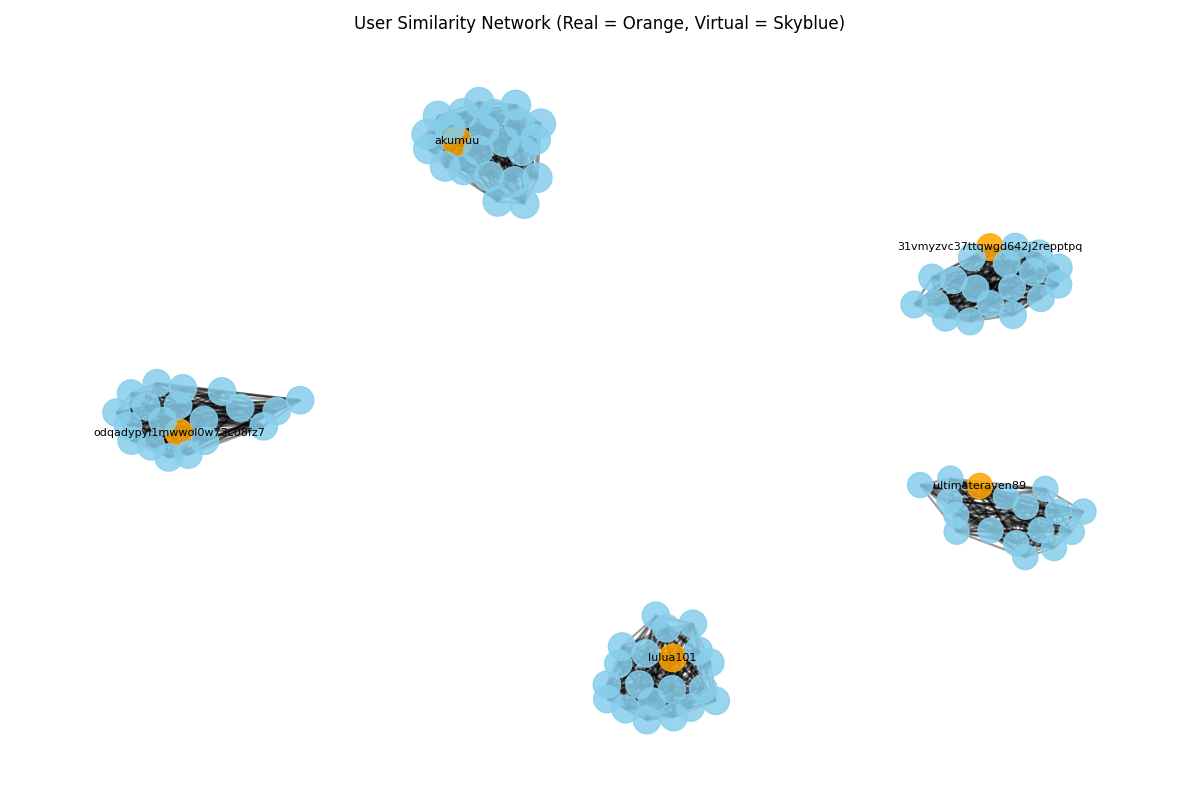
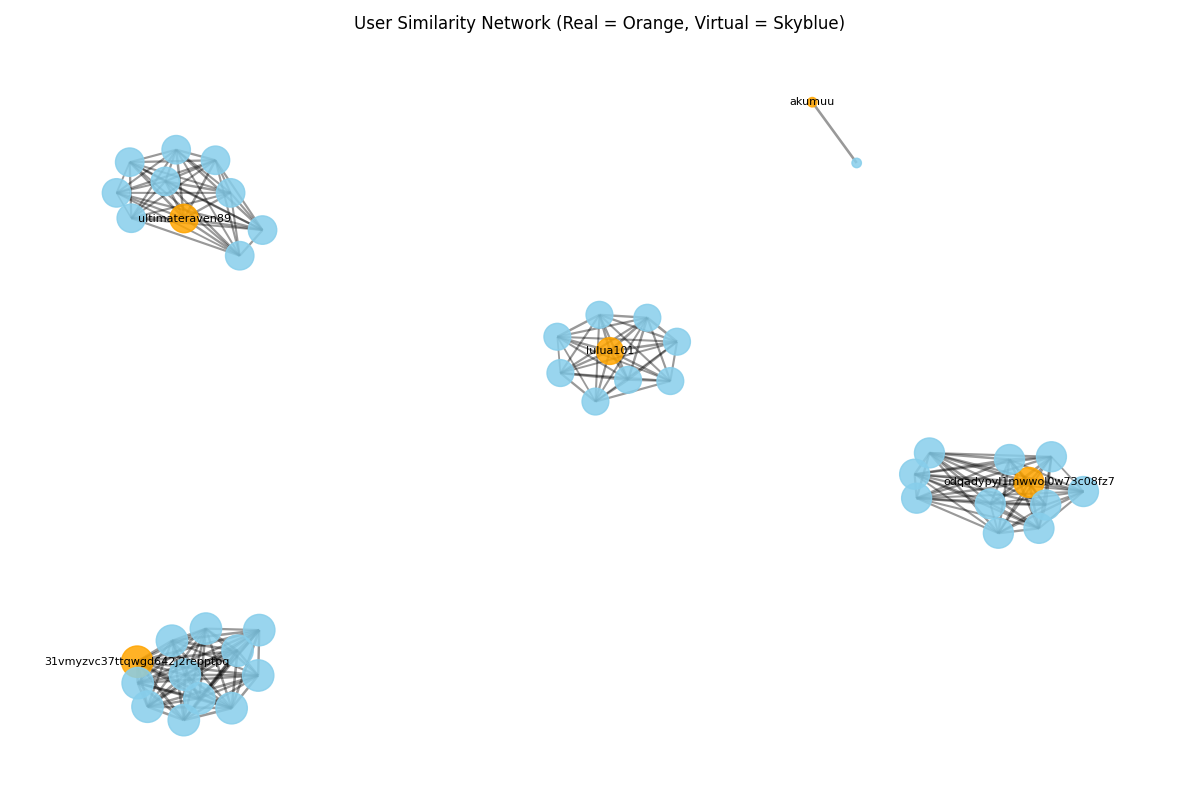
Add files via upload

diff --git a/main.py b/main.py
@@ -87,7 +87,7 @@ def analyze_users():
     genre_df = build_genre_matrix(users)
     normalized = pd.DataFrame(StandardScaler().fit_transform(genre_df), columns=genre_df.columns, index=genre_df.index)
     z_scores = np.abs(zscore(normalized))
-    outliers = (z_scores > 5.5).any(axis=1)
+    outliers = (z_scores > 3.5).any(axis=1)
 
     cleaned = normalized[~outliers].copy()
     print(f'Remaining users after outlier filtering: {len(cleaned)}')
@@ -134,9 +134,9 @@ def analyze_users():
     print('Top Genres per Cluster:')
     for cluster_id, group in original_genres.groupby('cluster'):
         top_genres = group.drop(columns='cluster').sum().sort_values(ascending=False).head(5)
-        genre_list = [f"{genre} ({int(count)} plays)" for genre, count in top_genres.items()]
+        genre_list = [f'{genre} ({int(count)} plays)' for genre, count in top_genres.items()]
         genre_string = ", ".join(genre_list)
-        print(f"Cluster {cluster_id}: {genre_string}\n")
+        print(f'Cluster {cluster_id}: {genre_string}\n')
 
     print('Top 5 Genres for Each Real User:')
     for user_id in genre_df.index:
@@ -223,7 +223,7 @@ def analyze_users():
     centrality_user_graph = nx.degree_centrality(G_user)
     nx.set_node_attributes(G_user, centrality_user_graph, 'centrality')
     node_sizes = [centrality_user_graph.get(n, 0) * 2000 for n in G_user.nodes]
-    node_colors = ["orange" if not n.startswith("Virtual") else "skyblue"
+    node_colors = ['orange' if not n.startswith('Virtual') else 'skyblue'
         for n in G_user.nodes()]
 
     plt.figure(figsize=(12, 8))
